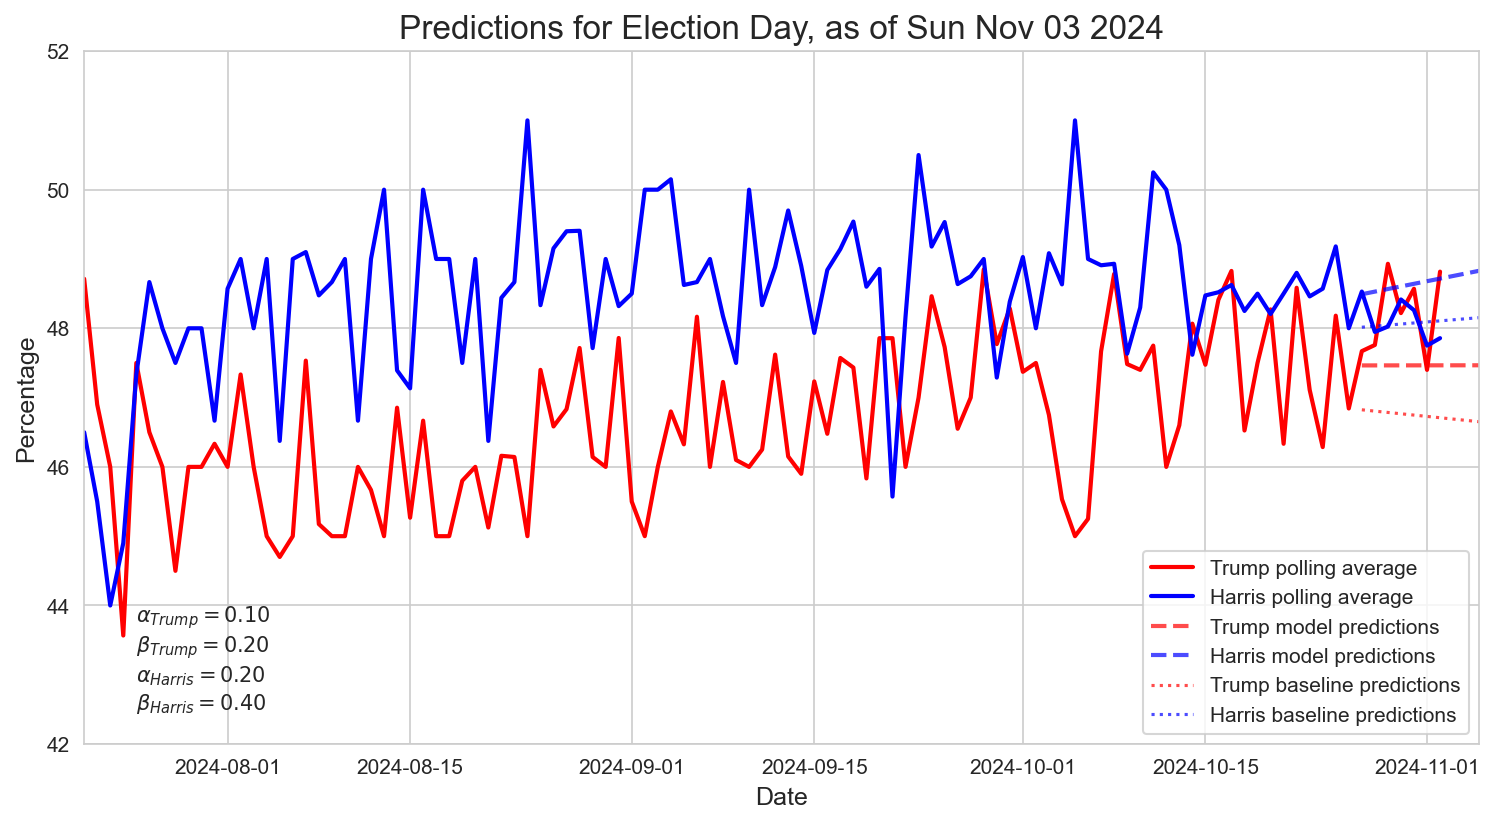
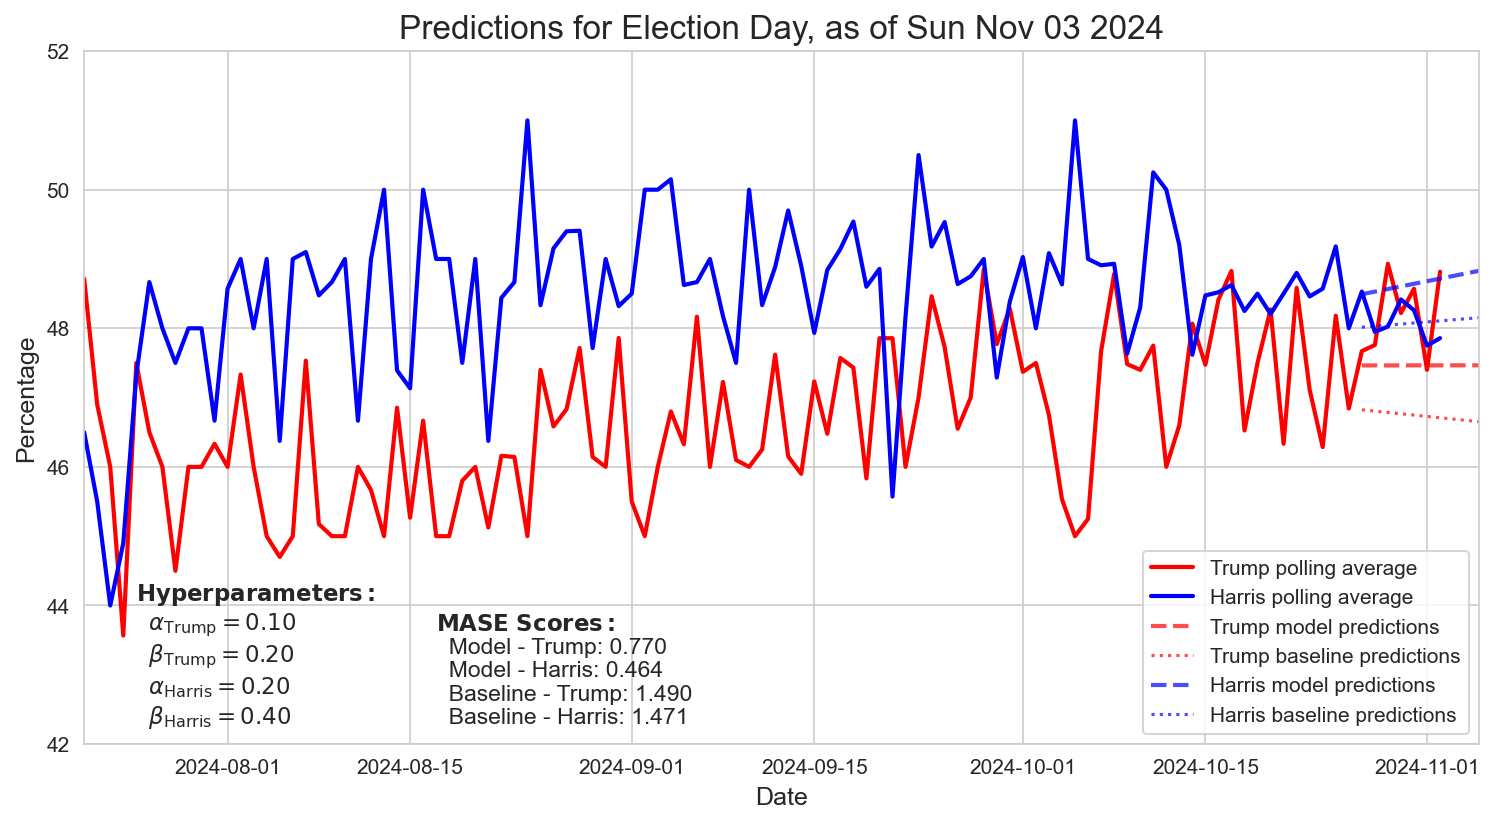
Added MASE scores.

Changed region(s): [[0.2771, 0.7282, 0.4618, 0.8799], [0.0924, 0.6978, 0.2463, 0.8799], [0.7697, 0.7888, 0.9853, 0.8495]]

diff --git a/src/visualization/plotting.py b/src/visualization/plotting.py
@@ -44,39 +44,44 @@ class ElectionPlotter:
         """Create main forecast plot showing polling data and predictions."""
         logger.info("Creating main forecast plot...")
 
+        # Get candidate configuration from config and add data
+        candidates = {}
+        data_map = {
+            "trump": (trump_train_data, trump_holdout_data),
+            "harris": (harris_train_data, harris_holdout_data),
+        }
+
+        for key, config in self.config.candidate_config.items():
+            if key in data_map:
+                candidates[key] = {
+                    "name": config["display_name"],
+                    "color": config["color"],
+                    "train_data": data_map[key][0],
+                    "holdout_data": data_map[key][1],
+                }
+
         # Create figure
         plt.figure(figsize=(12, 6))
 
-        # Plot ALL polling data as continuous lines (combine training + holdout)
-        trump_all_data = pd.concat(
-            [trump_train_data, trump_holdout_data], ignore_index=True
-        ).sort_values("end_date")
-        harris_all_data = pd.concat(
-            [harris_train_data, harris_holdout_data], ignore_index=True
-        ).sort_values("end_date")
+        # Plot polling data for both candidates
+        for key, candidate in candidates.items():
+            # Combine training + holdout data for continuous line
+            all_data = pd.concat(
+                [candidate["train_data"], candidate["holdout_data"]], ignore_index=True
+            ).sort_values("end_date")
 
-        # Plot continuous observed polling data (thick solid lines)
-        plt.plot(
-            trump_all_data["end_date"],
-            trump_all_data["daily_average"],
-            "r",
-            linewidth=2,
-            label="Trump polling average",
-        )
-        plt.plot(
-            harris_all_data["end_date"],
-            harris_all_data["daily_average"],
-            "b",
-            linewidth=2,
-            label="Harris polling average",
-        )
+            # Plot continuous observed polling data (thick solid lines)
+            plt.plot(
+                all_data["end_date"],
+                all_data["daily_average"],
+                color=candidate["color"],
+                linewidth=2,
+                label=f"{candidate['name']} polling average",
+            )
 
-        # Plot all predictions (holdout + future) for both model and baseline
+        # Plot all predictions for both candidates
         self._plot_all_predictions(
-            trump_train_data,
-            trump_holdout_data,
-            harris_train_data,
-            harris_holdout_data,
+            candidates,
             fitted_values,
             forecast_period_dates,
             forecasts,
@@ -93,17 +98,37 @@ class ElectionPlotter:
         # Title with forecast date
         title_date = forecast_date.strftime("%a %b %d %Y")
         plt.title(f"Predictions for Election Day, as of {title_date}", fontsize=16)
-        plt.legend()
+        plt.legend(loc="lower right")
 
         # Add parameter annotations
         param_text = (
-            f"$\\alpha_{{Trump}} = {best_params['trump']['alpha']:.2f}$\n"
-            f"$\\beta_{{Trump}} = {best_params['trump']['beta']:.2f}$\n"
-            f"$\\alpha_{{Harris}} = {best_params['harris']['alpha']:.2f}$\n"
-            f"$\\beta_{{Harris}} = {best_params['harris']['beta']:.2f}$"
+            f"$\\mathbf{{Hyperparameters:}}$\n"
+            f"  $\\alpha_{{\\mathrm{{Trump}}}} = {best_params['trump']['alpha']:.2f}$\n"
+            f"  $\\beta_{{\\mathrm{{Trump}}}} = {best_params['trump']['beta']:.2f}$\n"
+            f"  $\\alpha_{{\\mathrm{{Harris}}}} = {best_params['harris']['alpha']:.2f}$\n"
+            f"  $\\beta_{{\\mathrm{{Harris}}}} = {best_params['harris']['beta']:.2f}$"
+        )
+        plt.text(
+            datetime(2024, 7, 25),  # type: ignore[arg-type]
+            42.3,
+            param_text,
+            fontsize=11,
         )
 
-        plt.text(datetime(2024, 7, 25), 42.5, param_text)  # type: ignore[arg-type]
+        # Add MASE performance annotations
+        mase_text = (
+            f"$\\mathbf{{MASE\\ Scores:}}$\n"
+            f"  Model - Trump: {best_params['trump']['mase']:.3f}\n"
+            f"  Model - Harris: {best_params['harris']['mase']:.3f}\n"
+            f"  Baseline - Trump: {best_params['trump']['baseline_mase']:.3f}\n"
+            f"  Baseline - Harris: {best_params['harris']['baseline_mase']:.3f}"
+        )
+        plt.text(
+            datetime(2024, 8, 17),  # type: ignore[arg-type]
+            42.3,
+            mase_text,
+            fontsize=11,
+        )
 
         # Save plot
         save_path.unlink(missing_ok=True)
@@ -117,90 +142,54 @@ class ElectionPlotter:
 
     def _plot_all_predictions(
         self,
-        trump_train_data,
-        trump_holdout_data,
-        harris_train_data,
-        harris_holdout_data,
+        candidates,
         fitted_values,
         forecast_period_dates,
         forecasts,
         baselines,
         holdout_baselines,
     ):
-        """Plot all model and baseline predictions for both holdout and future periods."""
+        """Plot all model and baseline predictions for both candidates."""
 
-        trump_train_len = len(trump_train_data)
-        harris_train_len = len(harris_train_data)
+        for key, candidate in candidates.items():
+            color = candidate["color"]
+            name = candidate["name"]
+            train_len = len(candidate["train_data"])
+            holdout_data = candidate["holdout_data"]
 
-        # Create continuous prediction lines (holdout + future)
-        trump_holdout_fitted = fitted_values["trump"][
-            trump_train_len : trump_train_len + len(trump_holdout_data)
-        ]
-        harris_holdout_fitted = fitted_values["harris"][
-            harris_train_len : harris_train_len + len(harris_holdout_data)
-        ]
+            # Create continuous prediction lines (holdout + future)
+            holdout_fitted = fitted_values[key][
+                train_len : train_len + len(holdout_data)
+            ]
 
-        # Combine dates and values for continuous plotting
-        trump_prediction_dates = list(trump_holdout_data["end_date"]) + list(
-            forecast_period_dates
-        )
-        harris_prediction_dates = list(harris_holdout_data["end_date"]) + list(
-            forecast_period_dates
-        )
-        trump_prediction_values = list(trump_holdout_fitted) + list(forecasts["trump"])
-        harris_prediction_values = list(harris_holdout_fitted) + list(
-            forecasts["harris"]
-        )
+            # Combine dates and values for continuous plotting
+            prediction_dates = list(holdout_data["end_date"]) + list(
+                forecast_period_dates
+            )
+            prediction_values = list(holdout_fitted) + list(forecasts[key])
+            baseline_values = list(holdout_baselines[key]) + list(baselines[key])
 
-        # Plot continuous model predictions
-        plt.plot(
-            trump_prediction_dates,
-            trump_prediction_values,
-            "r--",
-            linewidth=2,
-            alpha=0.7,
-            label="Trump model predictions",
-        )
-        plt.plot(
-            harris_prediction_dates,
-            harris_prediction_values,
-            "b--",
-            linewidth=2,
-            alpha=0.7,
-            label="Harris model predictions",
-        )
+            # Plot continuous model predictions
+            plt.plot(
+                prediction_dates,
+                prediction_values,
+                color=color,
+                linestyle="--",
+                linewidth=2,
+                alpha=0.7,
+                label=f"{name} model predictions",
+            )
 
-        # Create continuous baseline lines (holdout + future)
-        trump_baseline_dates = list(trump_holdout_data["end_date"]) + list(
-            forecast_period_dates
-        )
-        harris_baseline_dates = list(harris_holdout_data["end_date"]) + list(
-            forecast_period_dates
-        )
-        trump_baseline_values = list(holdout_baselines["trump"]) + list(
-            baselines["trump"]
-        )
-        harris_baseline_values = list(holdout_baselines["harris"]) + list(
-            baselines["harris"]
-        )
-
-        # Plot continuous baseline predictions
-        plt.plot(
-            trump_baseline_dates,
-            trump_baseline_values,
-            "r:",
-            linewidth=1.5,
-            alpha=0.7,
-            label="Trump baseline predictions",
-        )
-        plt.plot(
-            harris_baseline_dates,
-            harris_baseline_values,
-            "b:",
-            linewidth=1.5,
-            alpha=0.7,
-            label="Harris baseline predictions",
-        )
+            # Plot continuous baseline predictions
+            plt.plot(
+                prediction_dates,
+                baseline_values,
+                color=color,
+                linestyle=":",
+                linewidth=1.5,
+                alpha=0.7,
+                label=f"{name} baseline predictions",
+            )
 
     def plot_historical_forecasts(
         self,
@@ -211,58 +200,42 @@ class ElectionPlotter:
         """Create historical forecasts plot showing how predictions changed over time."""
         logger.info("Creating historical forecasts plot...")
 
-        # Separate by candidate - only get data that actually exists (not NaN)
-        trump_data = previous_forecasts[
-            (previous_forecasts["candidate"] == "Donald Trump")
-            & (previous_forecasts["model"].notna())
-        ].copy()
-        harris_data = previous_forecasts[
-            (previous_forecasts["candidate"] == "Kamala Harris")
-            & (previous_forecasts["model"].notna())
-        ].copy()
-
         # Create figure
         plt.figure(figsize=(12, 6))
 
-        # Plot model predictions with gap-aware line breaking
-        self._plot_continuous_segments(
-            trump_data,
-            color="red",
-            label_prefix="Trump (model prediction)",
-            value_column="model",
-            line_style="-",
-            marker="o",
-            markersize=4,
-        )
-        self._plot_continuous_segments(
-            harris_data,
-            color="blue",
-            label_prefix="Harris (model prediction)",
-            value_column="model",
-            line_style="-",
-            marker="o",
-            markersize=4,
-        )
+        # Plot for each candidate using configuration
+        for key, config in self.config.candidate_config.items():
+            full_name = config["full_name"]
+            display_name = config["display_name"]
+            color = config["color"]
 
-        # Plot baseline predictions with gap-aware line breaking
-        self._plot_continuous_segments(
-            trump_data,
-            color="red",
-            label_prefix="Trump (baseline)",
-            value_column="baseline",
-            line_style="--",
-            marker="s",
-            markersize=3,
-        )
-        self._plot_continuous_segments(
-            harris_data,
-            color="blue",
-            label_prefix="Harris (baseline)",
-            value_column="baseline",
-            line_style="--",
-            marker="s",
-            markersize=3,
-        )
+            # Filter data for this candidate
+            candidate_data = previous_forecasts[
+                (previous_forecasts["candidate"] == full_name)
+                & (previous_forecasts["model"].notna())
+            ].copy()
+
+            # Plot model predictions
+            self._plot_continuous_segments(
+                candidate_data,
+                color=color,
+                label_prefix=f"{display_name} (model prediction)",
+                value_column="model",
+                line_style="-",
+                marker="o",
+                markersize=4,
+            )
+
+            # Plot baseline predictions
+            self._plot_continuous_segments(
+                candidate_data,
+                color=color,
+                label_prefix=f"{display_name} (baseline)",
+                value_column="baseline",
+                line_style="--",
+                marker="s",
+                markersize=3,
+            )
 
         # Formatting
         plt.xlabel("Date", fontsize=12)
@@ -286,7 +259,7 @@ class ElectionPlotter:
         # Title
         title_date = forecast_date.strftime("%a %b %d %Y")
         plt.title(f"Predictions up to {title_date}", fontsize=16)
-        plt.legend()
+        plt.legend(loc="lower right")
         plt.grid(True, alpha=0.3)
 
         # Save plot

diff --git a/src/config.py b/src/config.py
@@ -51,6 +51,22 @@ class DataConfig:
     population_filter: str = "lv"  # likely voters
     pollscore_threshold: float = 0.0  # negative pollscore only
 
+    # Candidate visualization configuration
+    candidate_config: Dict[str, Dict] = field(
+        default_factory=lambda: {
+            "trump": {
+                "full_name": "Donald Trump",
+                "display_name": "Trump",
+                "color": "red",
+            },
+            "harris": {
+                "full_name": "Kamala Harris",
+                "display_name": "Harris",
+                "color": "blue",
+            },
+        }
+    )
+
     # Core date strings
     earliest_available_data: str = "2024-07-21"
     forecast_start_date: str = "2024-10-23"
@@ -108,3 +124,11 @@ class DataConfig:
             state_info["code"]: state_info["electoral_votes"]
             for state_info in self.swing_states.values()
         }
+
+    def get_candidate_keys(self) -> List[str]:
+        """Get list of candidate keys for iteration."""
+        return list(self.candidate_config.keys())
+
+    def get_candidate_full_names(self) -> List[str]:
+        """Get list of candidate full names."""
+        return [config["full_name"] for config in self.candidate_config.values()]
